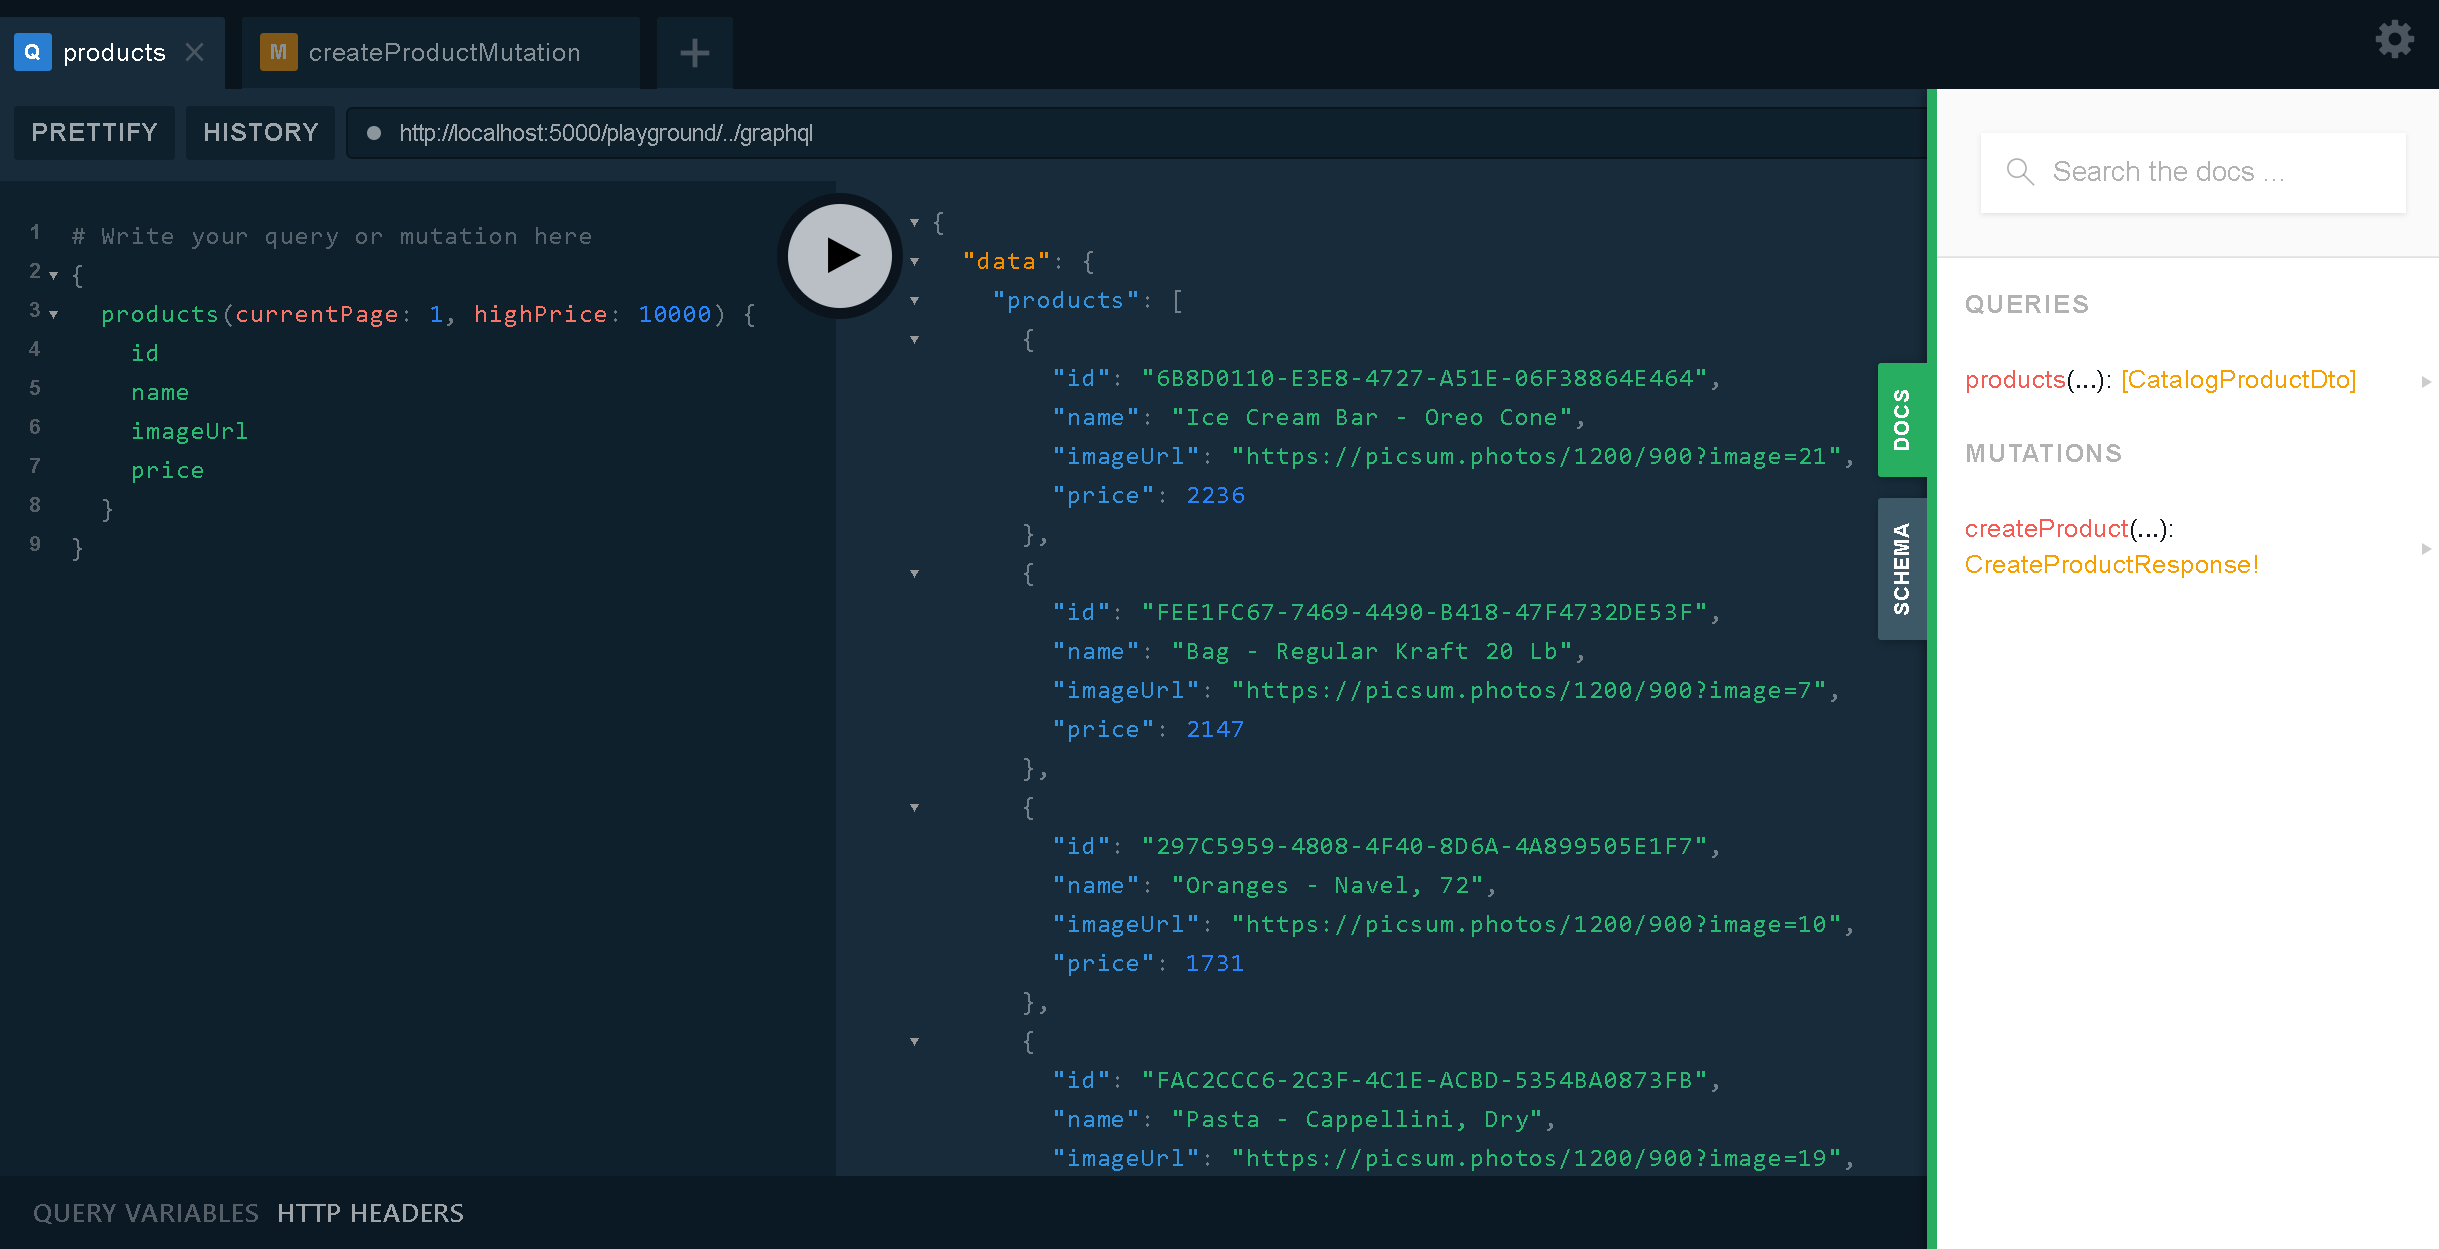
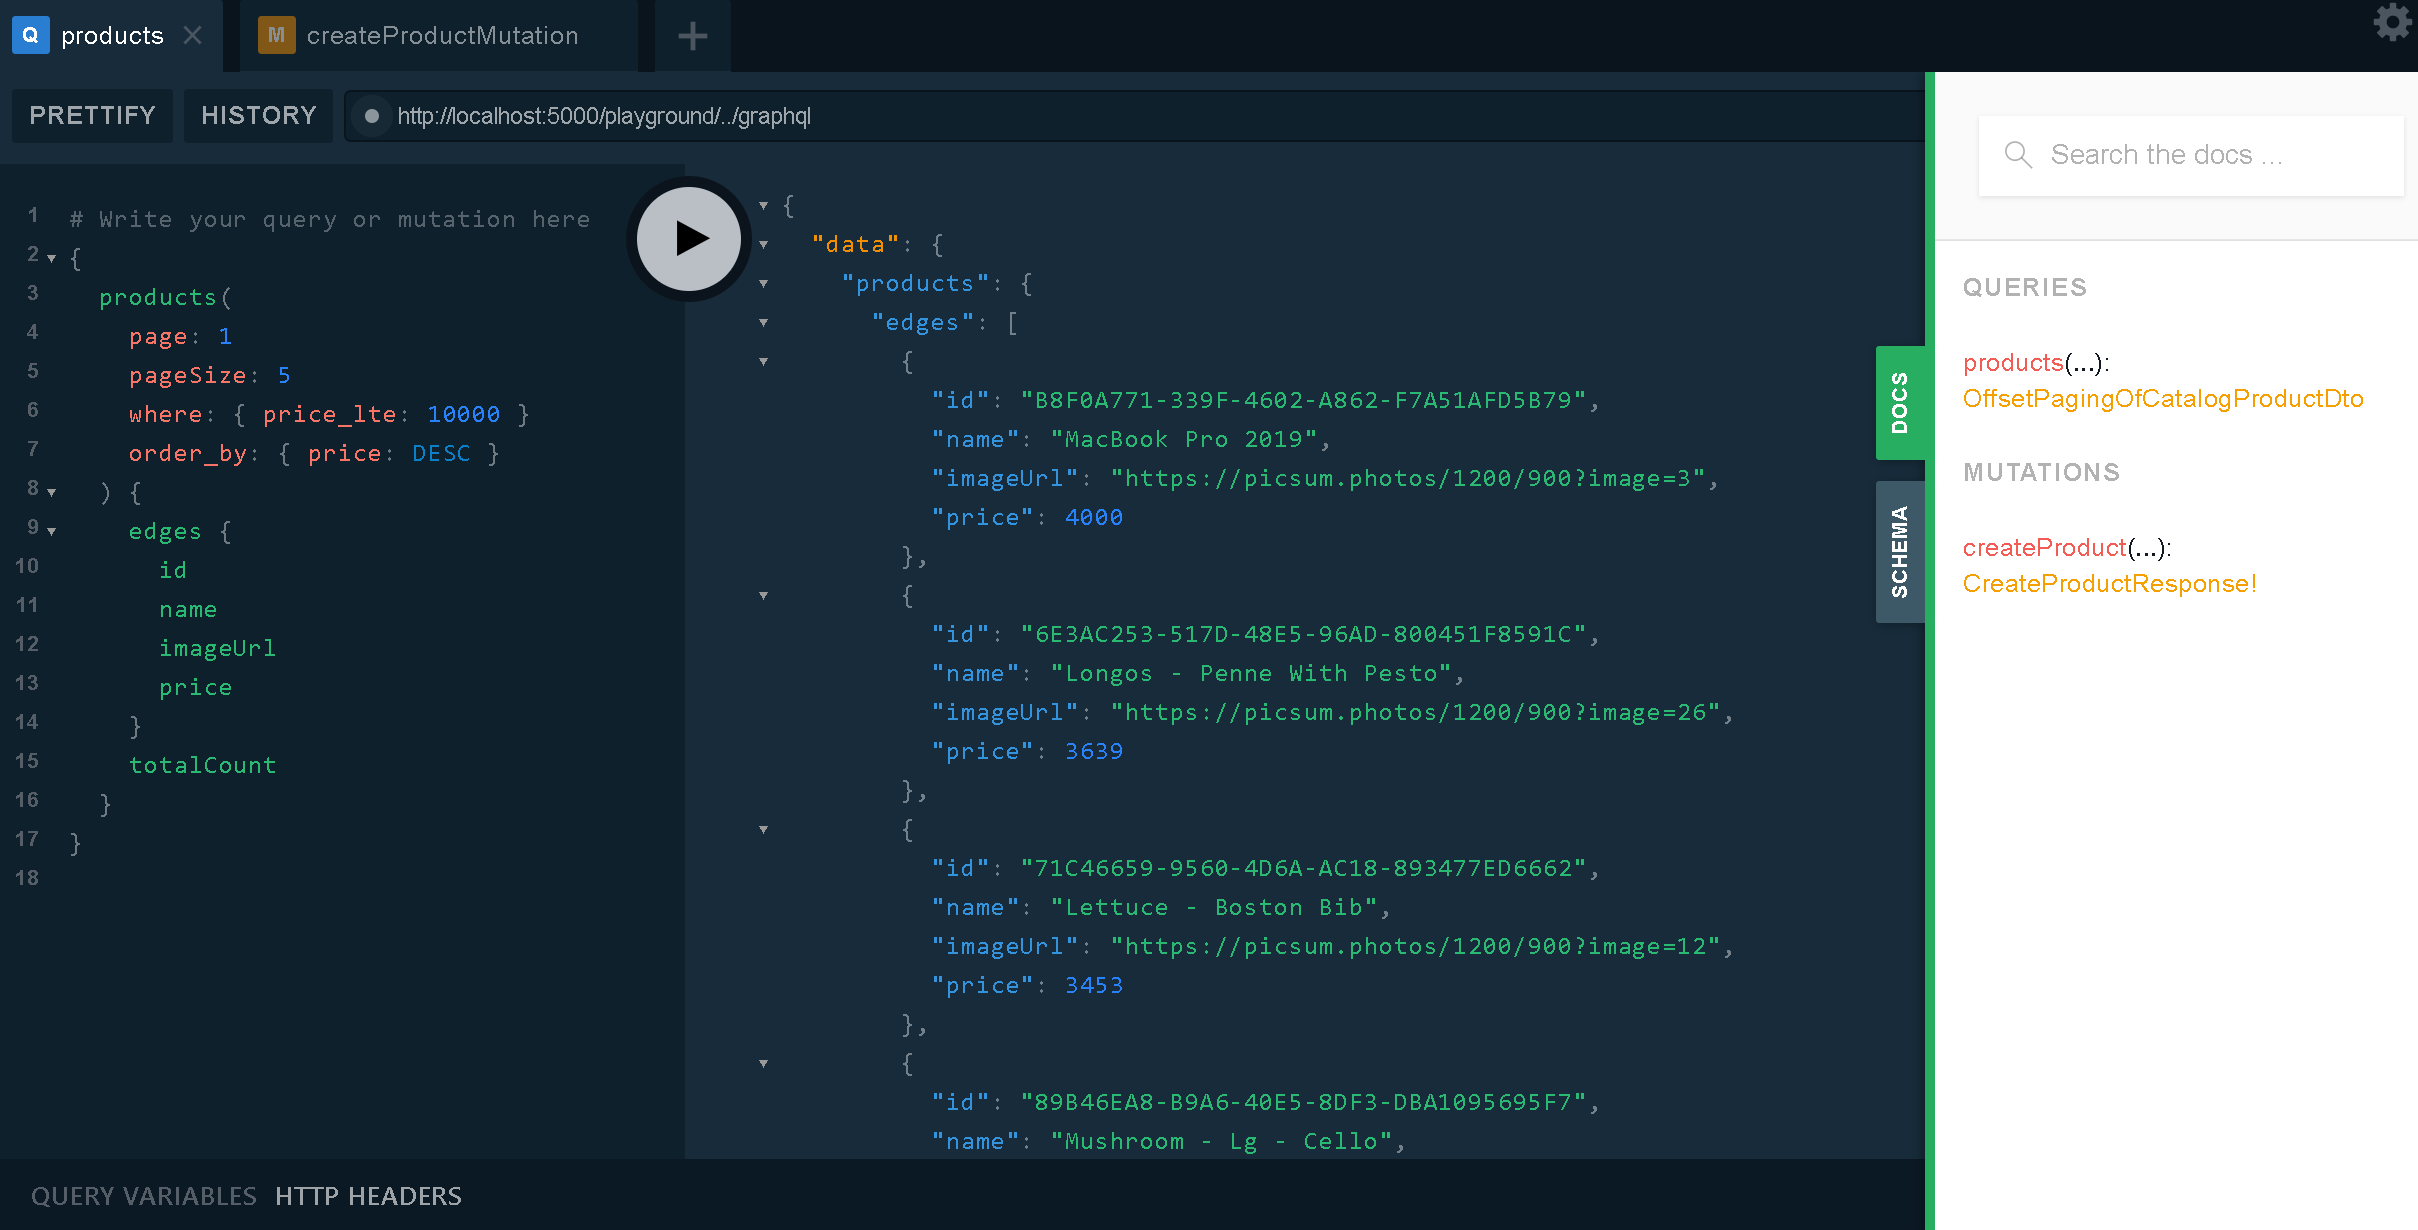
add paging, sorting and filtering

diff --git a/src/BuildingBlocks/N8T.Infra/GraphQL/OffsetPaging/ObjectFieldDescriptorExtensions.cs b/src/BuildingBlocks/N8T.Infra/GraphQL/OffsetPaging/ObjectFieldDescriptorExtensions.cs
@@ -1,0 +1,46 @@
+using System.Threading.Tasks;
+using HotChocolate.Resolvers;
+using HotChocolate.Types;
+using HotChocolate.Types.Descriptors;
+
+namespace N8T.Infrastructure.GraphQL.OffsetPaging
+{
+    public static class ObjectFieldDescriptorExtensions
+    {
+        public static IObjectFieldDescriptor UseOffsetPaging<TSchemaType, TValueType>(
+            this IObjectFieldDescriptor descriptor)
+            where TSchemaType : class, IOutputType
+            where TValueType : new()
+        {
+            static FieldDelegate Placeholder(FieldDelegate next) => context => Task.CompletedTask;
+            var middlewareDefinition = typeof(QueryableConnectionMiddleware<>);
+
+            descriptor
+                .AddPagingArguments()
+                .Type<OffsetPagingType<TSchemaType, TValueType>>()
+                .Use(Placeholder)
+                .Extend()
+                .OnBeforeCompletion((context, definition) =>
+                {
+                    var reference = new ClrTypeReference(typeof(TSchemaType), TypeContext.Output);
+                    var type = context.GetType<IOutputType>(reference);
+
+                    if (!(type.NamedType() is IHasClrType hasClrType)) return;
+                    var middlewareType = middlewareDefinition.MakeGenericType(hasClrType.ClrType);
+                    var middleware = FieldClassMiddlewareFactory.Create(middlewareType);
+                    var index = definition.MiddlewareComponents.IndexOf(Placeholder);
+                    definition.MiddlewareComponents[index] = middleware;
+                })
+                .DependsOn<TSchemaType>();
+
+            return descriptor;
+        }
+
+        private static IObjectFieldDescriptor AddPagingArguments(this IObjectFieldDescriptor descriptor)
+        {
+            return descriptor
+                .Argument("page", a => a.Type<IntType>())
+                .Argument("pageSize", a => a.Type<IntType>());
+        }
+    }
+}

diff --git a/src/BuildingBlocks/N8T.Infra/GraphQL/OffsetPaging/QueryableConnectionMiddleware.cs b/src/BuildingBlocks/N8T.Infra/GraphQL/OffsetPaging/QueryableConnectionMiddleware.cs
@@ -1,0 +1,50 @@
+using System;
+using System.Collections.Generic;
+using System.Linq;
+using System.Threading.Tasks;
+using HotChocolate.Resolvers;
+
+namespace N8T.Infrastructure.GraphQL.OffsetPaging
+{
+    public class QueryableConnectionMiddleware<TValueType> where TValueType : new()
+    {
+        private readonly FieldDelegate _next;
+
+        public QueryableConnectionMiddleware(FieldDelegate next)
+        {
+            _next = next ?? throw new ArgumentNullException(nameof(next));
+        }
+
+        public async Task InvokeAsync(IMiddlewareContext context)
+        {
+            await _next(context).ConfigureAwait(false);
+
+            var page = context.Argument<int?>("page") ?? 1;
+            if (page <= 0)
+            {
+                page = 1;
+            }
+
+            var pageSize = context.Argument<int?>("pageSize") ?? 10;
+
+            var source = context.Result switch
+            {
+                IQueryable<TValueType> q => q,
+                IEnumerable<TValueType> e => e.AsQueryable(),
+                _ => null
+            };
+
+            if (source != null)
+            {
+                context.Result = new OffsetPaging<TValueType>
+                {
+                    TotalCount = source.LongCount(),
+                    Edges = source
+                        .Skip((page - 1) * pageSize)
+                        .Take(pageSize)
+                        .ToList()
+                };
+            }
+        }
+    }
+}

diff --git a/src/ProductCatalog/CoolStore.ProductCatalogApi/UseCases/GetProductsByPriceAndName/GetProductsHandler.cs b/src/ProductCatalog/CoolStore.ProductCatalogApi/UseCases/GetProductsByPriceAndName/GetProductsHandler.cs
@@ -9,11 +9,11 @@ using System.Threading.Tasks;
 
 namespace CoolStore.ProductCatalogApi.UseCases.GetProductsByPriceAndName
 {
-    public class GetProductsByPriceAndNameHandler : IRequestHandler<GetProductsRequest, GetProductsResponse>
+    public class GetProductsHandler : IRequestHandler<GetProductsRequest, GetProductsResponse>
     {
         private readonly ProductCatalogDbContext _dbContext;
 
-        public GetProductsByPriceAndNameHandler(ProductCatalogDbContext dbContext)
+        public GetProductsHandler(ProductCatalogDbContext dbContext)
         {
             _dbContext = dbContext ?? throw new ArgumentNullException(nameof(dbContext));
         }
@@ -23,9 +23,7 @@ namespace CoolStore.ProductCatalogApi.UseCases.GetProductsByPriceAndName
             var products = await _dbContext.Products
                 .AsNoTracking()
                 .Include(x => x.Category)
-                .Where(x => x.Price <= request.HighPrice && !x.IsDeleted)
-                .Skip(request.CurrentPage - 1)
-                .Take(10)
+                .Where(x => !x.IsDeleted)
                 .Select(x => new CatalogProductDto
                 {
                     Id = x.Id.ToString(),

diff --git a/src/ProductCatalog/CoolStore.ProductCatalogApi/Boundaries/GraphQL/QueryType.cs b/src/ProductCatalog/CoolStore.ProductCatalogApi/Boundaries/GraphQL/QueryType.cs
@@ -1,4 +1,8 @@
-using HotChocolate.Types;
+using CoolStore.ProductCatalogApi.Boundaries.GraphQL.Filters;
+using CoolStore.ProductCatalogApi.Boundaries.GraphQL.Sorts;
+using CoolStore.Protobuf.ProductCatalog.V1;
+using HotChocolate.Types;
+using N8T.Infrastructure.GraphQL.OffsetPaging;
 
 namespace CoolStore.ProductCatalogApi.Boundaries.GraphQL
 {
@@ -7,8 +11,11 @@ namespace CoolStore.ProductCatalogApi.Boundaries.GraphQL
         protected override void Configure(IObjectTypeDescriptor<Query> descriptor)
         {
             descriptor
-                .Field(x => x.GetProducts(default, default))
-                .Name("products");
+                .Field(x => x.GetProducts())
+                .Name("products")
+                .UseOffsetPaging<ProductType, CatalogProductDto>()
+                .UseFiltering<ProductFilterType>()
+                .UseSorting<ProductSortType>();
         }
     }
 }

diff --git a/src/ProductCatalog/CoolStore.ProductCatalogApi/Boundaries/GraphQL/Filters/ProductFilterType.cs b/src/ProductCatalog/CoolStore.ProductCatalogApi/Boundaries/GraphQL/Filters/ProductFilterType.cs
@@ -1,0 +1,26 @@
+using CoolStore.Protobuf.ProductCatalog.V1;
+using HotChocolate.Types.Filters;
+
+namespace CoolStore.ProductCatalogApi.Boundaries.GraphQL.Filters
+{
+    public class ProductFilterType : FilterInputType<CatalogProductDto>
+    {
+        protected override void Configure(IFilterInputTypeDescriptor<CatalogProductDto> descriptor)
+        {
+            descriptor
+                .BindFieldsExplicitly()
+                .Filter(t => t.Name)
+                .BindFiltersExplicitly()
+                .AllowEquals().And()
+                .AllowContains();
+
+            descriptor
+                .BindFieldsExplicitly()
+                .Filter(t => t.Price)
+                .BindFiltersExplicitly()
+                .AllowEquals().And()
+                .AllowGreaterThanOrEquals().And()
+                .AllowLowerThanOrEquals();
+        }
+    }
+}

diff --git a/src/BuildingBlocks/N8T.Infra/Logging/LoggingBehavior.cs b/src/BuildingBlocks/N8T.Infra/Logging/LoggingBehavior.cs
@@ -1,0 +1,23 @@
+using MediatR;
+using Microsoft.Extensions.Logging;
+using System.Threading;
+using System.Threading.Tasks;
+
+namespace N8T.Infrastructure.Logging
+{
+    public class LoggingBehavior<TRequest, TResponse> : IPipelineBehavior<TRequest, TResponse>
+    {
+        private readonly ILogger<LoggingBehavior<TRequest, TResponse>> _logger;
+        public LoggingBehavior(ILogger<LoggingBehavior<TRequest, TResponse>> logger) => _logger = logger;
+
+        public async Task<TResponse> Handle(TRequest request,
+            CancellationToken cancellationToken,
+            RequestHandlerDelegate<TResponse> next)
+        {
+            _logger.LogInformation($"Handling {nameof(TRequest)}");
+            var response = await next();
+            _logger.LogInformation($"Handled {nameof(TResponse)}");
+            return response;
+        }
+    }
+}

diff --git a/src/BuildingBlocks/N8T.Infra/GraphQL/OffsetPaging/OffsetPagingType.cs b/src/BuildingBlocks/N8T.Infra/GraphQL/OffsetPaging/OffsetPagingType.cs
@@ -1,0 +1,20 @@
+using HotChocolate.Types;
+
+namespace N8T.Infrastructure.GraphQL.OffsetPaging
+{
+    public class OffsetPagingType<TSchemaType, TValueType> : ObjectType<OffsetPaging<TValueType>>
+        where TSchemaType : class, IOutputType
+        where TValueType : new()
+    {
+        protected override void Configure(IObjectTypeDescriptor<OffsetPaging<TValueType>> descriptor)
+        {
+            descriptor.Field(t => t.Edges)
+                .Name("edges")
+                .Description("A list of edges.")
+                .Type<ListType<TSchemaType>>();
+
+            descriptor.Field(t => t.TotalCount)
+                .Type<NonNullType<IntType>>();
+        }
+    }
+}

diff --git a/src/ProductCatalog/CoolStore.ProductCatalogApi/Boundaries/GraphQL/Sorts/ProductSortType.cs b/src/ProductCatalog/CoolStore.ProductCatalogApi/Boundaries/GraphQL/Sorts/ProductSortType.cs
@@ -1,0 +1,19 @@
+using CoolStore.Protobuf.ProductCatalog.V1;
+using HotChocolate.Types.Sorting;
+
+namespace CoolStore.ProductCatalogApi.Boundaries.GraphQL.Sorts
+{
+    public class ProductSortType : SortInputType<CatalogProductDto>
+    {
+        protected override void Configure(ISortInputTypeDescriptor<CatalogProductDto> descriptor)
+        {
+            descriptor
+                .BindFieldsExplicitly()
+                .Sortable(t => t.Name);
+
+            descriptor
+                .BindFieldsExplicitly()
+                .Sortable(t => t.Price);
+        }
+    }
+}

diff --git a/src/ProductCatalog/CoolStore.ProductCatalogApi/Boundaries/GraphQL/Query.cs b/src/ProductCatalog/CoolStore.ProductCatalogApi/Boundaries/GraphQL/Query.cs
@@ -15,9 +15,9 @@ namespace CoolStore.ProductCatalogApi.Boundaries.GraphQL
             _mediator = mediator;
         }
 
-        public async Task<IEnumerable<CatalogProductDto>> GetProducts(int currentPage, double highPrice)
+        public async Task<IEnumerable<CatalogProductDto>> GetProducts()
         {
-            var response = await _mediator.Send(new GetProductsRequest { CurrentPage = currentPage, HighPrice = highPrice });
+            var response = await _mediator.Send(new GetProductsRequest());
             return response.Products.ToList();
         }
     }

diff --git a/src/BuildingBlocks/N8T.Infra/GraphQL/OffsetPaging/OffsetPaging.cs b/src/BuildingBlocks/N8T.Infra/GraphQL/OffsetPaging/OffsetPaging.cs
@@ -1,0 +1,10 @@
+using System.Collections.Generic;
+
+namespace N8T.Infrastructure.GraphQL.OffsetPaging
+{
+    public class OffsetPaging<TValueType>
+    {
+        public IEnumerable<TValueType> Edges { get; set; }
+        public long? TotalCount { get; set; }
+    }
+}

diff --git a/src/ProductCatalog/CoolStore.ProductCatalogApi/UseCases/GetProductsByPriceAndName/GetProductsValidator.cs b/src/ProductCatalog/CoolStore.ProductCatalogApi/UseCases/GetProductsByPriceAndName/GetProductsValidator.cs
@@ -1,0 +1,9 @@
+using CoolStore.Protobuf.ProductCatalog.V1;
+using FluentValidation;
+
+namespace CoolStore.ProductCatalogApi.UseCases.GetProductsByPriceAndName
+{
+    public class GetProductsValidator : AbstractValidator<GetProductsRequest>
+    {
+    }
+}
